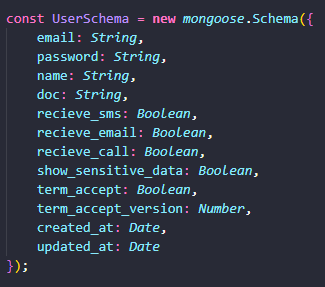
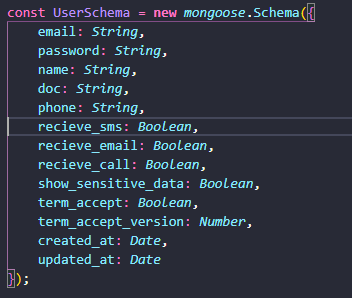
documentação

Changed region(s): [[0.0, 0.0, 1.0, 0.9756]]

diff --git a/back/src/controller/userController.js b/back/src/controller/userController.js
@@ -2,6 +2,8 @@ const User = require("../schemas/userService");
 const Term = require("../schemas/termService");
 const interceptor = require("../utils/interceptor");
 
+const bcrypt = require('bcrypt');
+
 const project_data = {
     recieve_email: 1,
     recieve_sms: 1,
@@ -32,20 +34,31 @@ const project_data = {
             "then": "$email",
             "else": "***"
         }
+    },
+    phone: {
+        $cond: {
+            if: {
+                $eq: ["$show_sensitive_data", true]
+            },
+            "then": "$phone",
+            "else": "***"
+        }
     }
 }
 
 module.exports = {
     async post (req, res){
-        const {email, password, name, doc, recieve_sms, recieve_email, show_sensitive_data, term_accept, term_accept_version, created_at, updated_at} = req.body;
+        const {email, password, name, doc, phone, recieve_sms, recieve_email, show_sensitive_data, term_accept, term_accept_version, created_at, updated_at} = req.body;
         let user = await User.findOne({doc});
         let currentTerm = await Term.findOne().sort({term_version: -1}).limit(1)
-
+        let salt = bcrypt.genSaltSync(8);
+        const hashedpass = await bcrypt.hashSync(password, salt);
         if(!user){
             user = await User.create({
                 email,
-                password,
+                password: hashedpass,
                 name,
+                phone,
                 doc,
                 recieve_sms,
                 recieve_email,
@@ -68,15 +81,18 @@ module.exports = {
 
     async put (req, res) {
 
-        const {email, password, name, doc, recieve_sms, recieve_email, show_sensitive_data, term_accept, term_accept_version} = req.body;
+        const {email, password, name, doc, phone, recieve_sms, recieve_email, show_sensitive_data, term_accept, term_accept_version} = req.body;
         const {id} = req.params;
+
+        let salt = bcrypt.genSaltSync(8);
+        const hashedpass = await bcrypt.hashSync(password, salt);
 
         let user = await User.findById(id);
 
         if(user){
 
             const updated_at = new Date();
-            await User.findByIdAndUpdate(id, {email, password, name, doc, recieve_sms, recieve_email, show_sensitive_data, term_accept, term_accept_version, updated_at});
+            await User.findByIdAndUpdate(id, {email, password: hashedpass, name, doc, phone, recieve_sms, recieve_email, show_sensitive_data, term_accept, term_accept_version, updated_at});
             interceptor(req, res, user);
 
             return res.send("Usuário alterado com sucesso");
@@ -129,7 +145,7 @@ module.exports = {
                     }
                 ]
             },
-            {_id: 1, email: 1, recieve_email: 1, recieve_sms: 1}
+            {_id: 1, email: 1, phone: 1, recieve_email: 1, recieve_sms: 1}
         );
 
         return res.json(users);

diff --git a/back/src/schemas/userService.js b/back/src/schemas/userService.js
@@ -5,6 +5,7 @@ const UserSchema = new mongoose.Schema({
     password: String,
     name: String,
     doc: String,
+    phone: String,
     recieve_sms: Boolean,
     recieve_email: Boolean,
     recieve_call: Boolean,

diff --git a/README.md b/README.md
@@ -111,17 +111,56 @@ Retorna o registro do termo no banco, com seu conteúdo criptografado.
 ### Post Validação do termo ativo
 
 ```
-<endereco_do_ambiente>/term/new
+<endereco_do_ambiente>/term/validate
 ```
 
 **Corpo da requisição**
 
-![Retorno](postTerm.png "Retorno")
+![Retorno](postValidateTerm1.png "Retorno")
 
-Retorna o registro do termo no banco, com seu conteúdo criptografado.
+Retorna o termo junto da sua validação de conteúdo. Caso haja alterações, o termo será invalidado.
 
-![Retorno](postTermReturn.png "Retorno")
+![Retorno](postValidateTerm2.png "Retorno")
 
+### Post Usuário
+
+```
+<endereco_do_ambiente>/users/new
+```
+
+**Corpo da requisição**
+
+![Retorno](postUser1.png "Retorno")
+
+Retorna os dados do usuário criado.
+
+![Retorno](postUser2.png "Retorno")
+
+### Put Usuário
+
+```
+<endereco_do_ambiente>/users/edit/<id>
+```
+
+**Corpo da requisição**
+
+![Retorno](postUser1.png "Retorno")
+
+Retorna mensagem de sucesso.
+
+### Post Busca de usuários que aceitam receber emails e SMS
+
+```
+<endereco_do_ambiente>/users/recieveNotifications
+```
+
+**Corpo da requisição**
+
+![Retorno](getByNotification1.png "Retorno")
+
+![Retorno](getByNotification2.png "Retorno")
+
+Retorna uma lista de usuários que aceitam receber contato através do canal buscado.
 
 
 
